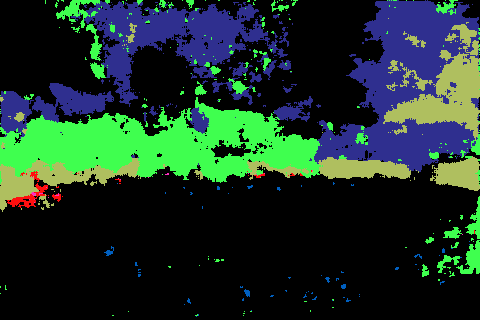
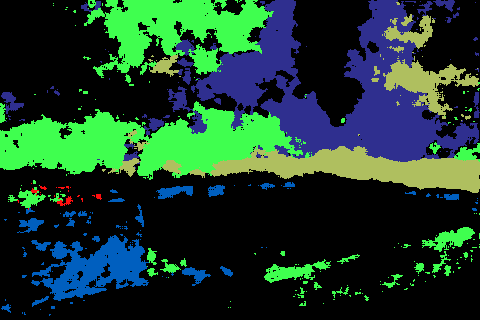
New prediction

diff --git a/main.py b/main.py
@@ -6,8 +6,8 @@ from lib.BatchSegNet import BatchSegNet
 def main():
   dataset_directory = './datasets/unreal_randomyaw/'
   net = BatchSegNet(dataset_directory)
-  net.train(num_iterations=50000, learning_rate=0.1)
-  # net.test()
+  # net.train(num_iterations=50000, learning_rate=0.1)
+  net.test()
 
 if __name__ == "__main__":
   main()
